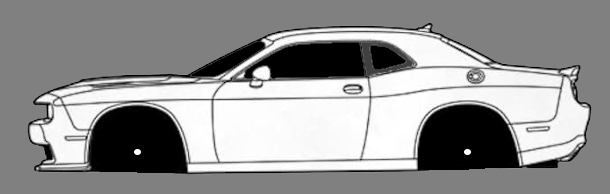
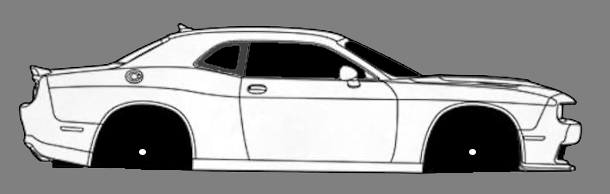
saco las imagenes de ejemplo, y pongo las que van a ir con la pagina.

Changed region(s): [[0.0311, 0.1237, 0.9656, 0.8969], [0.7475, 0.7732, 0.7787, 0.8041], [0.218, 0.7732, 0.2492, 0.8041]]

diff --git a/app-cyoc/src/pages/DashPages/AutoDesigner.js b/app-cyoc/src/pages/DashPages/AutoDesigner.js
@@ -4,17 +4,21 @@ import { useNavigate } from 'react-router-dom';
 import '../../assets/styles/AutoDesigner.css';
 
 
-import rueda1 from '../../assets/images/ruedas_modelos/rueda1.jpg';
-import rueda2 from '../../assets/images/ruedas_modelos/rueda2.jpg';
-import rueda3 from '../../assets/images/ruedas_modelos/rueda3.jpg';
-import rueda4 from '../../assets/images/ruedas_modelos/rueda4.jpg';
-import rueda5 from '../../assets/images/ruedas_modelos/rueda5.jpg';
-import rueda6 from '../../assets/images/ruedas_modelos/rueda6.jpg';
-import rueda7 from '../../assets/images/ruedas_modelos/rueda7.jpg';
-import rueda8 from '../../assets/images/ruedas_modelos/rueda8.jpg';
+import rueda1 from '../../assets/images/ruedas_modelos/rueda1.png';
+import rueda2 from '../../assets/images/ruedas_modelos/rueda2.png';
+import rueda3 from '../../assets/images/ruedas_modelos/rueda3.png';
+import rueda4 from '../../assets/images/ruedas_modelos/rueda4.png';
 
 
 import dodge from '../../assets/images/chasis_modelos/dodge.jpg';
+import audi from '../../assets/images/chasis_modelos/audi.jpg';
+import mercedes from '../../assets/images/chasis_modelos/mercedes.jpg';
+import mazda from '../../assets/images/chasis_modelos/mazda.jpg';
+import bmw from '../../assets/images/chasis_modelos/bmw.jpg';
+import mustang from '../../assets/images/chasis_modelos/mustang.jpg';
+import r34 from '../../assets/images/chasis_modelos/r34.jpg';
+
+
 
 
 const motores = [
@@ -38,10 +42,10 @@ function AutoDesigner() {
   const navigate = useNavigate(); 
 
 
-  const wheelImages = [rueda1, rueda2, rueda3, rueda4, rueda5, rueda6, rueda7, rueda8];
+  const wheelImages = [rueda1, rueda2, rueda3, rueda4];
 
 
-  const chassisImages = [dodge, dodge, dodge, dodge, dodge, dodge, dodge, dodge];
+  const chassisImages = [dodge, audi, mercedes, mazda, bmw, mustang, r34, dodge];
 
 
   const handlePartSelect = (part) => {
@@ -114,18 +118,19 @@ function AutoDesigner() {
 
         <div className="option" id="llanta" onMouseEnter={() => handlePartSelect('wheels')}>
           <div className="label">WHEEL</div>
-          <div className="grid-container">
+            <div className="wheel-grid-container">
             {wheelImages.map((image, index) => (
-              <button
-                key={index}
-                className={`grid-box wheel-box ${selectedWheel === index ? 'selected' : ''}`}
-                onClick={() => handleWheelSelect(index)}
-              >
-                <img src={image} alt={`Wheel ${index + 1}`} className="wheel-image" />
-              </button>
-            ))}
-          </div>
+            <button
+            key={index}
+            className={`grid-box wheel-box ${selectedWheel === index ? 'selected' : ''}`}
+            onClick={() => handleWheelSelect(index)}
+            >
+          <img src={image} alt={`Wheel ${index + 1}`} className="wheel-image" />
+        </button>
+        ))}
         </div>
+        </div>
+
 
         <div className="option" id="motor" onMouseEnter={() => handlePartSelect('engine')}>
           <div className="label">ENGINE</div>

diff --git a/app-cyoc/src/assets/styles/AutoDesigner.css b/app-cyoc/src/assets/styles/AutoDesigner.css
@@ -35,6 +35,18 @@ body {
     width: 100%;
 }
 
+.wheel-grid-container {
+    display: none;
+    grid-template-columns: repeat(2, 1fr);
+    grid-template-rows: repeat(2, 1fr);
+    gap: 15px;
+    width: 50%;
+}
+
+.option:hover .wheel-grid-container {
+    display: grid;
+}
+
 .option {
     flex: 1;
     display: flex;

diff --git a/app-cyoc/src/pages/DashPages/FinalStep.js b/app-cyoc/src/pages/DashPages/FinalStep.js
@@ -1,6 +1,6 @@
 import React, { useState } from 'react';
 import { useLocation } from 'react-router-dom';
-import '../../assets/styles/finalstep.css';
+import '../../assets/styles/FinalStep.css';
 
 function FinalStep() {
   const location = useLocation();
